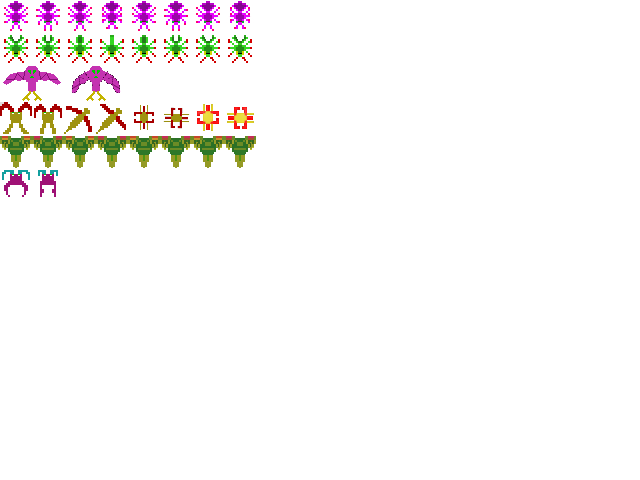
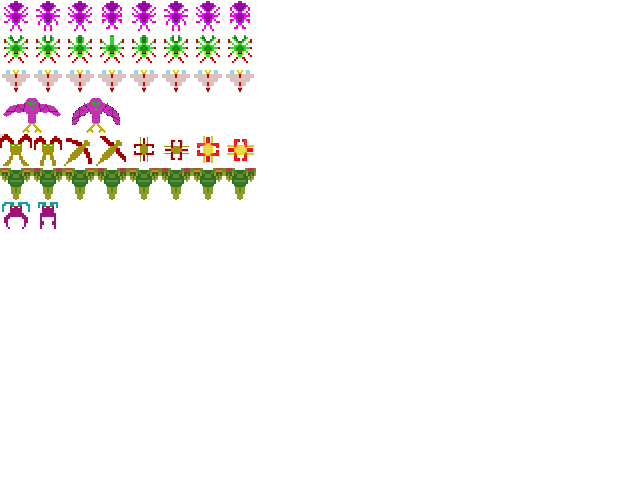
Add files via upload

Changed region(s): [[0.0, 0.125, 0.4062, 0.4688]]

diff --git a/src/enemy.js b/src/enemy.js
@@ -10,7 +10,10 @@ export default class Enemy {
       x: 0,
       y: 0
     };
-    this.startXPosition = xPos;
+    this.start = {
+      x: xPos,
+      y: yPos
+    };
 
     this.position = {
       x: xPos,
@@ -27,7 +30,14 @@ export default class Enemy {
     this.bulletImage.src = "./enemyBullet.png";
     this.sourceWidth = 32;
     this.sourceHeight = 32;
-    this.sourceY = enemyType === 0 ? 0 : 32;
+    if (this.enemyType === 0) {
+      this.sourceY = 0;
+    } else if (this.enemyType === 1) {
+      this.sourceY = 32;
+    } else if (this.enemyType === 2) {
+      this.sourceY = 64;
+    }
+
     this.numberOfFrames = 8;
     this.frameDuration = 15;
     this.repeatAnimation = true;
@@ -46,7 +56,7 @@ export default class Enemy {
       this.repeatAnimation,
       this.angle
     );
-    this.start = true;
+    //this.start = true;
     this.movement = 0;
     this.bounced = 0;
     this.outsideViewPort = false;
@@ -75,17 +85,24 @@ export default class Enemy {
     // every delta milliSeconds
     if (!delta) return;
     //if (this.angle >= 360) this.angle = 0;
-    this.speed.x = 5 * Math.cos((this.angle * Math.PI) / 180);
-    this.speed.y = 5 * Math.sin((this.angle * Math.PI) / 180);
+
+    if (this.enemyType === 0 || this.enemyType === 1) {
+      this.speed.x = 5 * Math.cos((this.angle * Math.PI) / 180);
+      this.speed.y = 5 * Math.sin((this.angle * Math.PI) / 180);
+
+      this.position.x =
+        this.enemyType === 0
+          ? Math.ceil(this.position.x) + this.speed.x
+          : Math.floor(this.position.x) + this.speed.x;
+      this.position.y = Math.floor(this.position.y) + this.speed.y;
+    } else if (this.enemyType === 2) {
+      this.position.x = 400 * Math.sin(Date.now() * 0.0005) + this.start.x;
+      //this.position.y = 100;
+    }
 
     // movement across screen
     // pixels per milliSecond
 
-    this.position.x =
-      this.enemyType === 0
-        ? Math.ceil(this.position.x) + this.speed.x
-        : Math.floor(this.position.x) + this.speed.x;
-    this.position.y = Math.floor(this.position.y) + this.speed.y;
     this.enemySprite.update(delta);
   }
 

diff --git a/src/level.js b/src/level.js
@@ -51,19 +51,19 @@ export default class Level {
       );*/
     } else if (level === 0) {
       this.enemies.push(
-        new Enemy(20, 300, 0, 1, "./enemies.png"),
-        new Enemy(50, 300, 0, 1, "./enemies.png"),
-        new Enemy(80, 300, 0, 1, "./enemies.png"),
-        new Enemy(110, 300, 0, 1, "./enemies.png"),
-        new Enemy(140, 300, 0, 1, "./enemies.png"),
-        new Enemy(170, 300, 0, 1, "./enemies.png"),
+        new Enemy(300, 300, 270, 2, "./enemies.png"),
+        new Enemy(340, 300, 270, 2, "./enemies.png"),
+        new Enemy(380, 300, 270, 2, "./enemies.png"),
+        new Enemy(420, 300, 270, 2, "./enemies.png"),
+        new Enemy(460, 300, 270, 2, "./enemies.png"),
+        new Enemy(500, 300, 270, 2, "./enemies.png"),
         new Enemy(width - 20, 300, 180, 0, "./enemies.png"),
         new Enemy(width - 50, 300, 180, 0, "./enemies.png"),
         new Enemy(width - 80, 300, 180, 0, "./enemies.png"),
         new Enemy(width - 110, 300, 180, 0, "./enemies.png"),
-        new Enemy(width - 140, 300, 180, 0, "./enemies.png"),
-        new Enemy(140, 315, 0, 0, "./enemies.png"),
-        new Enemy(140, 345, 0, 0, "./enemies.png")
+        new Enemy(width - 140, 300, 180, 0, "./enemies.png")
+        //new Enemy(140, 315, 0, 0, "./enemies.png"),
+        //new Enemy(140, 345, 0, 0, "./enemies.png")
       );
     } else {
       this.enemies.push(

diff --git a/src/game.js b/src/game.js
@@ -283,7 +283,7 @@ export default class Game {
         ) {
           enemy.angle -= 2;
         }
-      } else {
+      } else if (enemy.enemyType === 1) {
         if (
           enemy.inPlay &&
           (enemy.position.x + enemy.width / 2 - this.screenWidth / 2) *
